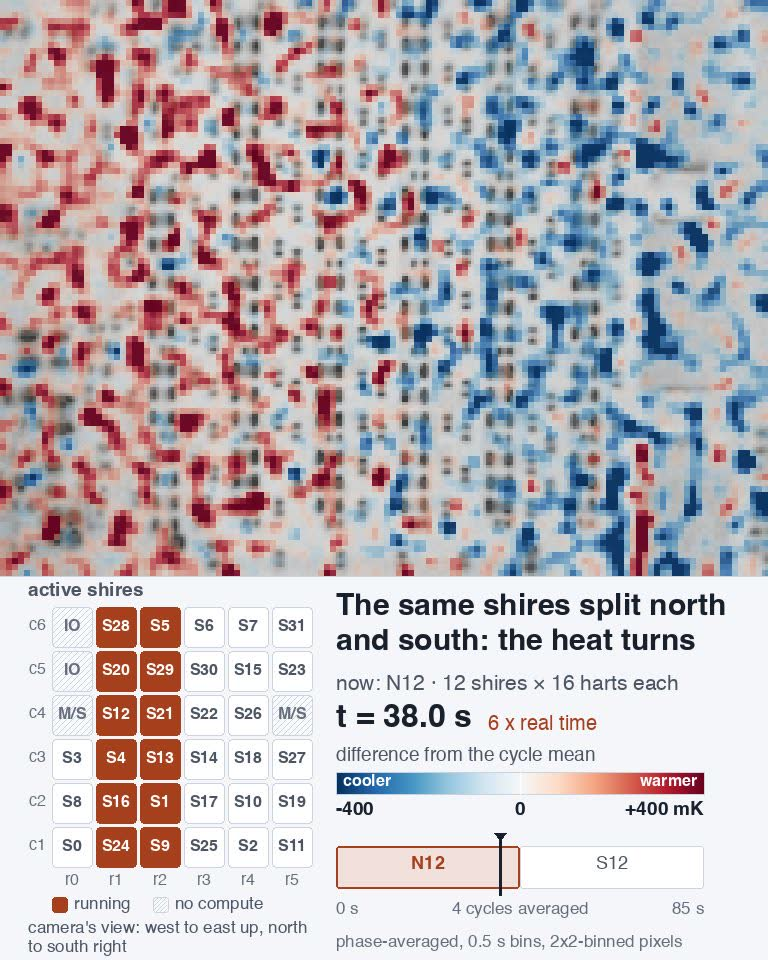
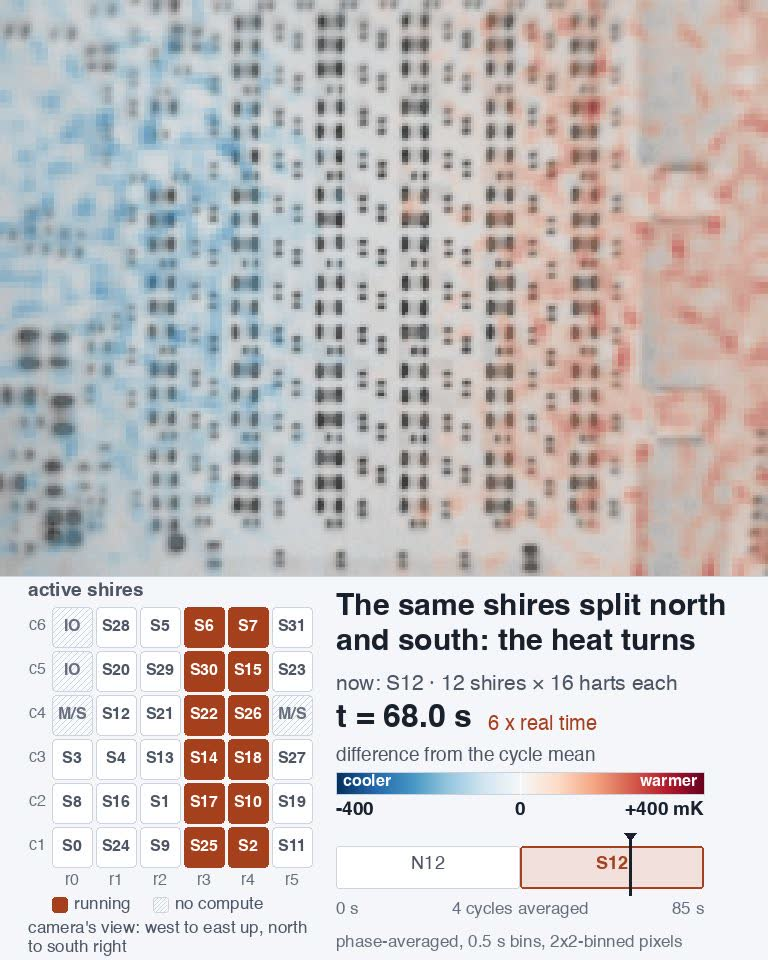
E62 page: movies play in view with one button, charts sized for desktop, NS42 poster from its clean half
The browser's own video controls covered the key burnt into the bottom of
each movie, so a small script swaps them for one play/pause button over the
picture (native controls stay for readers without scripts): each movie plays
muted on a loop while half of it is on screen, pauses when scrolled away, and
stays paused once the reader pauses it; reduced motion starts nothing. The
compass and sweep charts are capped at 480 px (they scaled to 1,000 px tall on
desktop) and the compass's "west" no longer runs off its left edge. The NS42
poster now comes from 68 s, the clean half of its cycle, and its caption says
the speckle in the north half is shutter residue, not heat. The hero caption
loses its note about a clipped key (the re-render fixed it), and the page's
title matches the space's.

diff --git a/docs/reports/2026-10-21-heat-movies/index.html b/docs/reports/2026-10-21-heat-movies/index.html
@@ -34,18 +34,27 @@ p[data-ss-id="nav-lab-dashboard"] a,.jump a{color:var(--muted);display:inline-bl
 .tile .l{font-size:14.5px;margin-top:4px}
 .tile .s{font-size:14px;color:var(--muted);margin-top:4px}
 figure{margin:18px 0 26px}
-figure video{display:block;width:100%;height:auto;aspect-ratio:4/5;
-max-width:min(100%,620px,calc(78vh * 0.8));margin-left:auto;margin-right:auto;
-background:#f6f8fa;border:1px solid var(--line);border-radius:6px}
+.mv{position:relative;width:100%;max-width:min(100%,620px,calc(78vh * 0.8));margin:0 auto}
+.mv video{display:block;width:100%;height:auto;aspect-ratio:4/5;
+background:#f6f8fa;border:1px solid var(--line);border-radius:6px;cursor:pointer}
+.pp{position:absolute;top:10px;right:10px;width:44px;height:44px;padding:0;border:0;border-radius:50%;
+background:rgba(24,32,43,.55);cursor:pointer;display:flex;align-items:center;justify-content:center}
+.pp svg{width:20px;height:20px;fill:#fff}
+.mv.paused .pp{top:30%;left:50%;right:auto;width:64px;height:64px;margin:-32px 0 0 -32px;background:rgba(24,32,43,.7)}
+.mv.paused .pp svg{width:28px;height:28px}
+.mv .i-play,.mv.paused .i-pause{display:none}
+.mv.paused .i-play{display:inline}
+.pp:focus-visible{outline:3px solid var(--accent);outline-offset:2px}
 figcaption{font-size:14.5px;color:var(--muted);margin-top:7px;max-width:46em}
 .chart{background:var(--card);border:1px solid var(--line);border-radius:6px;padding:14px 16px;margin:18px 0 8px}
 .chart .k{font-size:14px;color:var(--muted);font-weight:600;margin-bottom:10px;max-width:46em}
-.chart svg{display:block;width:100%;height:auto}
+.chart svg{display:block;width:100%;height:auto;max-width:480px;margin:0 auto}
 .two{display:grid;grid-template-columns:repeat(auto-fit,minmax(290px,1fr));gap:16px}
 .two figure{margin:8px 0 10px}
 ul.plain{padding-left:20px;max-width:46em}
 ul.plain li{margin:0 0 9px}
 .links a{display:inline-block;padding:11px 5px;margin:-11px 0}
+.links a:last-child{padding-right:0}
 .bar{display:grid;grid-template-columns:minmax(160px,17em) 1fr;gap:4px 14px;align-items:center;margin:0 0 8px}
 .bar .n{font-size:14.5px}
 .bar .n b{display:block;font-size:15px;color:var(--accent);font-variant-numeric:tabular-nums}
@@ -77,7 +86,7 @@ margin:0;background:#f6f8fa;border:1px solid var(--line);border-radius:6px}
 font-size:15px;color:var(--muted)}
 footer{margin-top:56px;padding-top:16px;border-top:1px solid var(--line);font-size:14.5px;color:var(--muted)}
 @media (max-width:640px){body{font-size:17px}
-figure video{max-width:min(100%,calc(70vh * 0.8))}
+.mv{max-width:min(100%,calc(70vh * 0.8))}
 .bar{grid-template-columns:1fr}}
 </style>
 </head>
@@ -93,8 +102,8 @@ figure video{max-width:min(100%,calc(70vh * 0.8))}
 
 <section id="s-hero" data-ss-id="section-hero" data-ss-section>
   <figure data-ss-id="fig-hero" data-ss-thumb>
-    <video src="img/orbit.mp4" poster="img/orbit-poster.jpg" autoplay muted loop playsinline controls width="768" height="960" aria-label="Thermal movie: the warm patch walks the die&#8217;s four corners clockwise, five laps, then collapses into the middle."></video>
-    <figcaption data-ss-id="cap-hero">128 threads in each of four corner blocks of the die, then the centre; 25 s a position, five laps at 10&#215; real time. The die map in each frame is turned to match the camera; colours are the difference from that lap&#8217;s average, red warmer. The corners saturate the shared &#177;400 mK scale and the centre, a fifth their size, reads nearly blank. The key burnt into the frame runs off its bottom edge &#8212; the whole of it is in the next paragraph.</figcaption>
+    <div class="mv"><video src="img/orbit.mp4" poster="img/orbit-poster.jpg" autoplay muted loop playsinline controls width="768" height="960" aria-label="Thermal movie: the warm patch walks the die&#8217;s four corners clockwise, five laps, then collapses into the middle."></video></div>
+    <figcaption data-ss-id="cap-hero">128 threads in each of four corner blocks of the die, then the centre; 25 s a position, five laps at 10&#215; real time. The die map in each frame is turned to match the camera; colours are the difference from that lap&#8217;s average, red warmer. The corners saturate the shared &#177;400 mK scale and the centre, a fifth their size, reads nearly blank.</figcaption>
   </figure>
   <h2 data-ss-id="heading-hero">Move the work round the four corners and the heat walks with it</h2>
   <div class="text">
@@ -116,7 +125,7 @@ figure video{max-width:min(100%,calc(70vh * 0.8))}
   <h2 data-ss-id="heading-compass">Four corners, four quadrants &#8212; and a centre near zero that its own power rule makes exploratory</h2>
   <div class="chart" data-ss-id="chart-compass">
     <div class="k">Where each block&#8217;s heat lands &#8212; on the die&#8217;s own compass, not the camera&#8217;s view above, which is rolled a right angle. Ticks every 100 mK.</div>
-    <svg viewBox="0 0 400 400" role="img" aria-label="Compass chart: the four corner blocks land in four separate quadrants of the die - NW 206 mK west and 323 mK north, NE 176 mK east and 173 mK north, SE 165 mK east and 229 mK south, SW 202 mK west and 281 mK south - while the centre block sits near the origin at 66 mK east and 14 mK north."><rect x="0" y="0" width="400" height="400" fill="#fff"/><line x1="35" y1="175" x2="345" y2="175" stroke="#c8ccd4" stroke-width="1.2"/><line x1="190" y1="35" x2="190" y2="320" stroke="#c8ccd4" stroke-width="1.2"/><line x1="154" y1="171" x2="154" y2="179" stroke="#c8ccd4" stroke-width="1.2"/><line x1="226" y1="171" x2="226" y2="179" stroke="#c8ccd4" stroke-width="1.2"/><line x1="118" y1="171" x2="118" y2="179" stroke="#c8ccd4" stroke-width="1.2"/><line x1="262" y1="171" x2="262" y2="179" stroke="#c8ccd4" stroke-width="1.2"/><line x1="82" y1="171" x2="82" y2="179" stroke="#c8ccd4" stroke-width="1.2"/><line x1="298" y1="171" x2="298" y2="179" stroke="#c8ccd4" stroke-width="1.2"/><line x1="186" y1="139" x2="194" y2="139" stroke="#c8ccd4" stroke-width="1.2"/><line x1="186" y1="211" x2="194" y2="211" stroke="#c8ccd4" stroke-width="1.2"/><line x1="186" y1="103" x2="194" y2="103" stroke="#c8ccd4" stroke-width="1.2"/><line x1="186" y1="247" x2="194" y2="247" stroke="#c8ccd4" stroke-width="1.2"/><line x1="186" y1="67" x2="194" y2="67" stroke="#c8ccd4" stroke-width="1.2"/><line x1="186" y1="283" x2="194" y2="283" stroke="#c8ccd4" stroke-width="1.2"/><text x="30" y="181" font-family="-apple-system,BlinkMacSystemFont,'Segoe UI',system-ui,Roboto,sans-serif" font-size="19" fill="#18202b" text-anchor="end" font-weight="700">west</text><text x="350" y="181" font-family="-apple-system,BlinkMacSystemFont,'Segoe UI',system-ui,Roboto,sans-serif" font-size="19" fill="#18202b" text-anchor="start" font-weight="700">east</text><text x="190" y="26" font-family="-apple-system,BlinkMacSystemFont,'Segoe UI',system-ui,Roboto,sans-serif" font-size="19" fill="#18202b" text-anchor="middle" font-weight="700">north</text><text x="190" y="344" font-family="-apple-system,BlinkMacSystemFont,'Segoe UI',system-ui,Roboto,sans-serif" font-size="19" fill="#18202b" text-anchor="middle" font-weight="700">south</text><line x1="101.8" y1="58.7" x2="129.8" y2="58.7" stroke="#a63f1c" stroke-width="1.8"/><line x1="115.8" y1="46.5" x2="115.8" y2="70.9" stroke="#a63f1c" stroke-width="1.8"/><circle cx="115.8" cy="58.7" r="7" fill="#a63f1c"/><text x="115.8" y="34" font-family="-apple-system,BlinkMacSystemFont,'Segoe UI',system-ui,Roboto,sans-serif" font-size="20" fill="#18202b" text-anchor="middle" font-weight="700">NW</text><line x1="244.8" y1="112.7" x2="262.0" y2="112.7" stroke="#a63f1c" stroke-width="1.8"/><line x1="253.4" y1="102.3" x2="253.4" y2="123.1" stroke="#a63f1c" stroke-width="1.8"/><circle cx="253.4" cy="112.7" r="7" fill="#a63f1c"/><text x="253.4" y="88" font-family="-apple-system,BlinkMacSystemFont,'Segoe UI',system-ui,Roboto,sans-serif" font-size="20" fill="#18202b" text-anchor="middle" font-weight="700">NE</text><line x1="236.4" y1="257.4" x2="262.4" y2="257.4" stroke="#a63f1c" stroke-width="1.8"/><line x1="249.4" y1="246.2" x2="249.4" y2="268.6" stroke="#a63f1c" stroke-width="1.8"/><circle cx="249.4" cy="257.4" r="7" fill="#a63f1c"/><text x="249.4" y="289" font-family="-apple-system,BlinkMacSystemFont,'Segoe UI',system-ui,Roboto,sans-serif" font-size="20" fill="#18202b" text-anchor="middle" font-weight="700">SE</text><line x1="105.4" y1="276.2" x2="129.2" y2="276.2" stroke="#a63f1c" stroke-width="1.8"/><line x1="117.3" y1="264.3" x2="117.3" y2="288.1" stroke="#a63f1c" stroke-width="1.8"/><circle cx="117.3" cy="276.2" r="7" fill="#a63f1c"/><text x="117.3" y="308" font-family="-apple-system,BlinkMacSystemFont,'Segoe UI',system-ui,Roboto,sans-serif" font-size="20" fill="#18202b" text-anchor="middle" font-weight="700">SW</text><line x1="200.5" y1="170.0" x2="227.1" y2="170.0" stroke="#8e97a6" stroke-width="1.8"/><line x1="213.8" y1="160.3" x2="213.8" y2="179.7" stroke="#8e97a6" stroke-width="1.8"/><circle cx="213.8" cy="170.0" r="7" fill="#8e97a6"/><text x="234" y="152" font-family="-apple-system,BlinkMacSystemFont,'Segoe UI',system-ui,Roboto,sans-serif" font-size="20" fill="#18202b" text-anchor="start" font-weight="700">centre</text></svg>
+    <svg viewBox="0 0 400 400" role="img" aria-label="Compass chart: the four corner blocks land in four separate quadrants of the die - NW 206 mK west and 323 mK north, NE 176 mK east and 173 mK north, SE 165 mK east and 229 mK south, SW 202 mK west and 281 mK south - while the centre block sits near the origin at 66 mK east and 14 mK north."><rect x="0" y="0" width="400" height="400" fill="#fff"/><line x1="60" y1="175" x2="320" y2="175" stroke="#c8ccd4" stroke-width="1.2"/><line x1="190" y1="35" x2="190" y2="320" stroke="#c8ccd4" stroke-width="1.2"/><line x1="154" y1="171" x2="154" y2="179" stroke="#c8ccd4" stroke-width="1.2"/><line x1="226" y1="171" x2="226" y2="179" stroke="#c8ccd4" stroke-width="1.2"/><line x1="118" y1="171" x2="118" y2="179" stroke="#c8ccd4" stroke-width="1.2"/><line x1="262" y1="171" x2="262" y2="179" stroke="#c8ccd4" stroke-width="1.2"/><line x1="82" y1="171" x2="82" y2="179" stroke="#c8ccd4" stroke-width="1.2"/><line x1="298" y1="171" x2="298" y2="179" stroke="#c8ccd4" stroke-width="1.2"/><line x1="186" y1="139" x2="194" y2="139" stroke="#c8ccd4" stroke-width="1.2"/><line x1="186" y1="211" x2="194" y2="211" stroke="#c8ccd4" stroke-width="1.2"/><line x1="186" y1="103" x2="194" y2="103" stroke="#c8ccd4" stroke-width="1.2"/><line x1="186" y1="247" x2="194" y2="247" stroke="#c8ccd4" stroke-width="1.2"/><line x1="186" y1="67" x2="194" y2="67" stroke="#c8ccd4" stroke-width="1.2"/><line x1="186" y1="283" x2="194" y2="283" stroke="#c8ccd4" stroke-width="1.2"/><text x="55" y="181" font-family="-apple-system,BlinkMacSystemFont,'Segoe UI',system-ui,Roboto,sans-serif" font-size="19" fill="#18202b" text-anchor="end" font-weight="700">west</text><text x="325" y="181" font-family="-apple-system,BlinkMacSystemFont,'Segoe UI',system-ui,Roboto,sans-serif" font-size="19" fill="#18202b" text-anchor="start" font-weight="700">east</text><text x="190" y="26" font-family="-apple-system,BlinkMacSystemFont,'Segoe UI',system-ui,Roboto,sans-serif" font-size="19" fill="#18202b" text-anchor="middle" font-weight="700">north</text><text x="190" y="344" font-family="-apple-system,BlinkMacSystemFont,'Segoe UI',system-ui,Roboto,sans-serif" font-size="19" fill="#18202b" text-anchor="middle" font-weight="700">south</text><line x1="101.8" y1="58.7" x2="129.8" y2="58.7" stroke="#a63f1c" stroke-width="1.8"/><line x1="115.8" y1="46.5" x2="115.8" y2="70.9" stroke="#a63f1c" stroke-width="1.8"/><circle cx="115.8" cy="58.7" r="7" fill="#a63f1c"/><text x="115.8" y="34" font-family="-apple-system,BlinkMacSystemFont,'Segoe UI',system-ui,Roboto,sans-serif" font-size="20" fill="#18202b" text-anchor="middle" font-weight="700">NW</text><line x1="244.8" y1="112.7" x2="262.0" y2="112.7" stroke="#a63f1c" stroke-width="1.8"/><line x1="253.4" y1="102.3" x2="253.4" y2="123.1" stroke="#a63f1c" stroke-width="1.8"/><circle cx="253.4" cy="112.7" r="7" fill="#a63f1c"/><text x="253.4" y="88" font-family="-apple-system,BlinkMacSystemFont,'Segoe UI',system-ui,Roboto,sans-serif" font-size="20" fill="#18202b" text-anchor="middle" font-weight="700">NE</text><line x1="236.4" y1="257.4" x2="262.4" y2="257.4" stroke="#a63f1c" stroke-width="1.8"/><line x1="249.4" y1="246.2" x2="249.4" y2="268.6" stroke="#a63f1c" stroke-width="1.8"/><circle cx="249.4" cy="257.4" r="7" fill="#a63f1c"/><text x="249.4" y="289" font-family="-apple-system,BlinkMacSystemFont,'Segoe UI',system-ui,Roboto,sans-serif" font-size="20" fill="#18202b" text-anchor="middle" font-weight="700">SE</text><line x1="105.4" y1="276.2" x2="129.2" y2="276.2" stroke="#a63f1c" stroke-width="1.8"/><line x1="117.3" y1="264.3" x2="117.3" y2="288.1" stroke="#a63f1c" stroke-width="1.8"/><circle cx="117.3" cy="276.2" r="7" fill="#a63f1c"/><text x="117.3" y="308" font-family="-apple-system,BlinkMacSystemFont,'Segoe UI',system-ui,Roboto,sans-serif" font-size="20" fill="#18202b" text-anchor="middle" font-weight="700">SW</text><line x1="200.5" y1="170.0" x2="227.1" y2="170.0" stroke="#8e97a6" stroke-width="1.8"/><line x1="213.8" y1="160.3" x2="213.8" y2="179.7" stroke="#8e97a6" stroke-width="1.8"/><circle cx="213.8" cy="170.0" r="7" fill="#8e97a6"/><text x="234" y="152" font-family="-apple-system,BlinkMacSystemFont,'Segoe UI',system-ui,Roboto,sans-serif" font-size="20" fill="#18202b" text-anchor="start" font-weight="700">centre</text></svg>
     <div class="legend" data-ss-id="legend-compass"><div><b>NW</b> <span>206 west &#183; 323 north</span></div><div><b>NE</b> <span>176 east &#183; 173 north</span></div><div><b>SE</b> <span>165 east &#183; 229 south</span></div><div><b>SW</b> <span>202 west &#183; 281 south</span></div><div><b>centre</b> <span>66 east &#183; 14 north</span></div></div>
     <div class="axnote">Mean &#177; standard error over five laps, in mK, post hoc.</div>
   </div>
@@ -130,12 +139,12 @@ figure video{max-width:min(100%,calc(70vh * 0.8))}
   <h2 data-ss-id="heading-halves">Split the same 24 shires the other way and the picture turns a right angle</h2>
   <div class="two">
   <figure data-ss-id="fig-we42">
-    <video src="img/we42.mp4" poster="img/we42-poster.jpg" preload="none" controls muted playsinline width="768" height="960" aria-label="Thermal movie: twelve shires west against twelve east, the warm half swapping sides every 42.5 seconds."></video>
-    <figcaption data-ss-id="cap-we42">Twelve shires west, then twelve east: 192 threads either way, 42.5 s a side. Heat arrives about 11 s late, so just after each switch the picture still shows the half that has gone quiet. Tap any movie here to play it.</figcaption>
+    <div class="mv"><video src="img/we42.mp4" poster="img/we42-poster.jpg" preload="none" controls muted loop playsinline width="768" height="960" aria-label="Thermal movie: twelve shires west against twelve east, the warm half swapping sides every 42.5 seconds."></video></div>
+    <figcaption data-ss-id="cap-we42">Twelve shires west, then twelve east: 192 threads either way, 42.5 s a side. Heat arrives about 11 s late, so just after each switch the picture still shows the half that has gone quiet. Movies play as they scroll into view; tap one to pause or play it.</figcaption>
   </figure>
   <figure data-ss-id="fig-ns42">
-    <video src="img/ns42.mp4" poster="img/ns42-poster.jpg" preload="none" controls muted playsinline width="768" height="960" aria-label="Thermal movie: the same twenty-four shires split north against south, the warm half swapping top to bottom."></video>
-    <figcaption data-ss-id="cap-ns42">The same 24 shires split north against south instead.</figcaption>
+    <div class="mv"><video src="img/ns42.mp4" poster="img/ns42-poster.jpg" preload="none" controls muted loop playsinline width="768" height="960" aria-label="Thermal movie: the same twenty-four shires split north against south, the warm half swapping top to bottom."></video></div>
+    <figcaption data-ss-id="cap-ns42">The same 24 shires split north against south instead. The speckle while the north twelve run is shutter residue the cleaning missed, not heat: the board blurs heat over centimetres.</figcaption>
   </figure>
   </div>
   <div class="chart" data-ss-id="chart-laps">
@@ -160,16 +169,16 @@ figure video{max-width:min(100%,calc(70vh * 0.8))}
   </div>
   <div class="two">
   <figure data-ss-id="fig-nullaa">
-    <video src="img/nullaa.mp4" poster="img/nullaa-poster.jpg" preload="none" controls muted playsinline width="768" height="960" aria-label="Thermal movie: the control with the identical shire mask in both arms, showing no swapping pattern."></video>
+    <div class="mv"><video src="img/nullaa.mp4" poster="img/nullaa-poster.jpg" preload="none" controls muted loop playsinline width="768" height="960" aria-label="Thermal movie: the control with the identical shire mask in both arms, showing no swapping pattern."></video></div>
     <figcaption data-ss-id="cap-nullaa">Control: the identical mask in <i>both</i> arms &#8212; the compute never changes.</figcaption>
   </figure>
   <figure data-ss-id="fig-nullgeo">
-    <video src="img/nullgeo.mp4" poster="img/nullgeo-poster.jpg" preload="none" controls muted playsinline width="768" height="960" aria-label="Thermal movie: the control with twelve shires against their own 180 degree rotation, showing no swapping pattern."></video>
+    <div class="mv"><video src="img/nullgeo.mp4" poster="img/nullgeo-poster.jpg" preload="none" controls muted loop playsinline width="768" height="960" aria-label="Thermal movie: the control with twelve shires against their own 180 degree rotation, showing no swapping pattern."></video></div>
     <figcaption data-ss-id="cap-nullgeo">Control: twelve shires against their own 180&#176; rotation, same power, same centre &#8212; measured in a quiet four-minute window, so the bound that governs the two-lap blocks comes from the louder instrumental null beside it, not from this one.</figcaption>
   </figure>
   </div>
   <figure data-ss-id="fig-w8be8b">
-    <video src="img/w8be8b.mp4" poster="img/w8be8b-poster.jpg" preload="none" controls muted playsinline width="768" height="960" aria-label="Thermal movie: the feature-matched replicate, eight shires west against eight east."></video>
+    <div class="mv"><video src="img/w8be8b.mp4" poster="img/w8be8b-poster.jpg" preload="none" controls muted loop playsinline width="768" height="960" aria-label="Thermal movie: the feature-matched replicate, eight shires west against eight east."></video></div>
     <figcaption data-ss-id="cap-w8be8b">The feature-matched replicate, eight shires a side. <b>Post hoc</b>, its dipole points 87.1&#176; against the headline swap&#8217;s 89.2&#176; &#8212; uncleaned it points &#8722;21.9&#176;, about 112&#176; away, so the agreement is the cleaning&#8217;s doing. Its size stays open. All five swap movies share one &#177;400 mK scale, which the strongest frames clip.</figcaption>
   </figure>
 </section>
@@ -177,7 +186,7 @@ figure video{max-width:min(100%,calc(70vh * 0.8))}
 <section id="s-sweep" data-ss-id="section-sweep" data-ss-section>
   <h2 data-ss-id="heading-sweep">Slide the work one column east and the warm patch slides with it</h2>
   <figure data-ss-id="fig-sweep">
-    <video src="img/sweep.mp4" poster="img/sweep-poster.jpg" preload="none" controls muted playsinline width="768" height="960" aria-label="Thermal movie: eight running shires sliding one column at a time from the west of the die to the east, five laps."></video>
+    <div class="mv"><video src="img/sweep.mp4" poster="img/sweep-poster.jpg" preload="none" controls muted loop playsinline width="768" height="960" aria-label="Thermal movie: eight running shires sliding one column at a time from the west of the die to the east, five laps."></video></div>
     <figcaption data-ss-id="cap-sweep">Eight shires sliding one column at a time, 17 s a position, five laps averaged. The two end positions clip the shared &#177;400 mK scale.</figcaption>
   </figure>
   <div class="chart" data-ss-id="chart-sweep">
@@ -191,7 +200,7 @@ figure video{max-width:min(100%,calc(70vh * 0.8))}
 <section id="s-bloom" data-ss-id="section-bloom" data-ss-section>
   <h2 data-ss-id="heading-bloom">Turn the whole chip on and the whole board glows &#8212; this is what every other movie cancels</h2>
   <figure data-ss-id="fig-bloom">
-    <video src="img/bloom.mp4" poster="img/bloom-poster.jpg" preload="none" controls muted playsinline width="768" height="960" aria-label="Thermal movie: all thirty-two shires switching on and off, the whole board warming and cooling together."></video>
+    <div class="mv"><video src="img/bloom.mp4" poster="img/bloom-poster.jpg" preload="none" controls muted loop playsinline width="768" height="960" aria-label="Thermal movie: all thirty-two shires switching on and off, the whole board warming and cooling together."></video></div>
     <figcaption data-ss-id="cap-bloom">All 32 shires on for 42 s, then idle for 127 s, three cycles at 12&#215; real time, on a &#177;8,000 mK scale against the swaps&#8217; &#177;400.</figcaption>
   </figure>
   <div class="text">
@@ -273,13 +282,48 @@ function ssLocalTimes() {
 }
 ssLocalTimes();
 document.addEventListener("ss:live", ssLocalTimes);
-try {
-  if (window.matchMedia && matchMedia("(prefers-reduced-motion: reduce)").matches) {
-    document.querySelectorAll("video[autoplay]").forEach(function (v) {
-      v.removeAttribute("autoplay"); v.removeAttribute("loop"); v.pause();
+// Movies: the native controls (kept for readers without scripts) would cover the key burnt into each frame, so swap
+// them for one button over the picture. Each movie plays muted on a loop while at least half of it is on screen and
+// pauses when scrolled away; a tap pauses or resumes it, and a movie the reader paused stays paused. Reduced motion:
+// nothing starts on its own.
+(function () {
+  var reduce = false;
+  try { reduce = matchMedia("(prefers-reduced-motion: reduce)").matches; } catch (e) {}
+  var ICON = '<svg viewBox="0 0 24 24" aria-hidden="true"><path class="i-play" d="M8 5v14l11-7z"/>' +
+             '<path class="i-pause" d="M7 5h4v14H7zM13 5h4v14h-4z"/></svg>';
+  var boxes = [].slice.call(document.querySelectorAll(".mv"));
+  boxes.forEach(function (box) {
+    var v = box.querySelector("video");
+    v.removeAttribute("controls");
+    if (reduce) { v.removeAttribute("autoplay"); v.removeAttribute("loop"); v.pause(); }
+    var b = document.createElement("button");
+    b.type = "button"; b.className = "pp"; b.innerHTML = ICON;
+    box.appendChild(b);
+    function sync() {
+      box.classList.toggle("paused", v.paused);
+      b.setAttribute("aria-label", v.paused ? "Play the movie" : "Pause the movie");
+    }
+    function play() { var p = v.play(); if (p && p.catch) p.catch(sync); }
+    function toggle() {
+      if (v.paused) { box.removeAttribute("data-held"); play(); }
+      else { box.setAttribute("data-held", ""); v.pause(); }
+    }
+    b.addEventListener("click", toggle);
+    v.addEventListener("click", toggle);
+    ["play", "playing", "pause", "ended", "emptied"].forEach(function (ev) { v.addEventListener(ev, sync); });
+    sync();
+    box.ssPlay = play;
+  });
+  if (reduce || !("IntersectionObserver" in window)) return;
+  var io = new IntersectionObserver(function (entries) {
+    entries.forEach(function (e) {
+      var box = e.target, v = box.querySelector("video");
+      if (e.intersectionRatio >= 0.5) { if (v.paused && !box.hasAttribute("data-held")) box.ssPlay(); }
+      else if (!v.paused) v.pause();
     });
-  }
-} catch (e) {}
+  }, { threshold: [0, 0.5] });
+  boxes.forEach(function (box) { io.observe(box); });
+})();
 </script>
 </body>
 </html>
